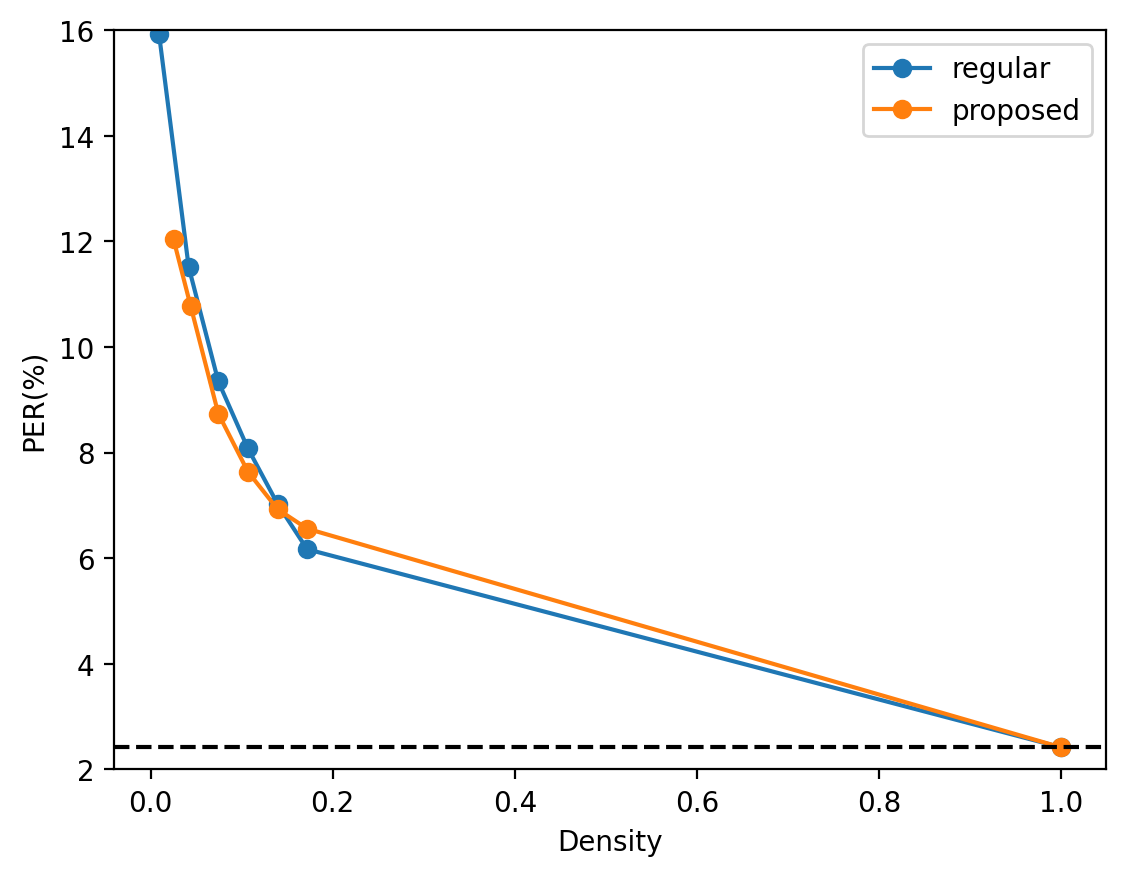
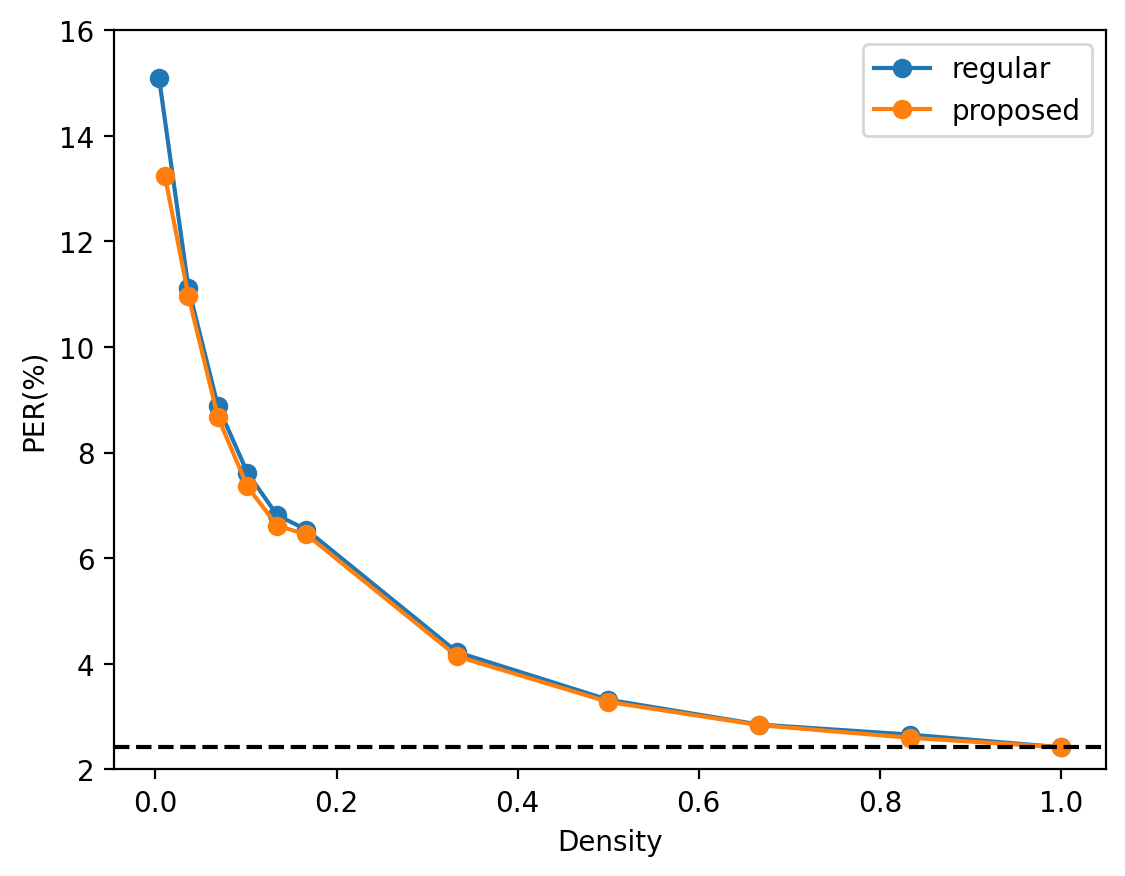
add draw figure script

diff --git a/reproduce_figure/draw.py b/reproduce_figure/draw.py
@@ -2,11 +2,17 @@ import argparse
 import numpy as np 
 import json 
 import matplotlib.pyplot as plt 
+import seaborn as sns 
 from matplotlib_venn import venn3
+
+sns.set()
+RED = '#FF4D4D'
+BLUE = '#6294FF'
+GREEN = '#91DD79'
 
 def mds_phoneme(phone_name):
     v_data_2d = np.load('data/mds-phoneme-2d.npy')
-    color = ['red', 'blue', 'green']
+    color = [RED, BLUE, GREEN]
     label = ['vowels', 'voiced-consonants', 'unvoiced-consonants']
     num_type = [15, 15, 9]
     acc = 0 
@@ -14,8 +20,8 @@ def mds_phoneme(phone_name):
         plt.scatter(v_data_2d[acc:acc+n,0], v_data_2d[acc:acc+n,1], c=color[idx], label=label[idx])
         acc += n 
     for idx, name in enumerate(phone_name):
-        plt.annotate(name, (v_data_2d[idx,0],v_data_2d[idx,1]))
-    plt.legend(loc='upper right', fontsize=6)
+        plt.annotate(name, (v_data_2d[idx,0],v_data_2d[idx,1]), fontsize=15)
+    plt.legend(loc='upper right', ncol=2, fontsize=13, framealpha=0.9)
     plt.axis('off')
     # plt.title(f'Layer 8')
     plt.savefig('fig/phone.png', bbox_inches='tight', dpi=200)
@@ -24,14 +30,14 @@ def mds_phoneme(phone_name):
 def mds_gender(phone_name):
     n_phone = len(phone_name)
     v_data_2d = np.load('data/mds-gender-2d.npy')
-    color = ['red', 'blue']
+    color = [RED, BLUE]
     label = ['male', 'female']
     for idx in range(2):
         plt.scatter(v_data_2d[idx*n_phone:(idx+1)*n_phone,0], v_data_2d[idx*n_phone:(idx+1)*n_phone,1], c=color[idx], label=label[idx])
     for idx, name in enumerate(phone_name):
-        plt.annotate(name, (v_data_2d[idx,0],v_data_2d[idx,1]))
-        plt.annotate(name, (v_data_2d[n_phone+idx,0],v_data_2d[n_phone+idx,1]))
-    plt.legend(loc='upper right', fontsize=6)
+        plt.annotate(name, (v_data_2d[idx,0],v_data_2d[idx,1]), fontsize=15)
+        plt.annotate(name, (v_data_2d[n_phone+idx,0],v_data_2d[n_phone+idx,1]), fontsize=15)
+    plt.legend(loc='upper right', ncol=2, fontsize=13, framealpha=0.9)
     plt.axis('off')
     # plt.title(f'Layer 1')
     plt.savefig('fig/gender.png', bbox_inches='tight', dpi=200)
@@ -40,15 +46,15 @@ def mds_gender(phone_name):
 def mds_pitch(phone_name):
     n_phone = len(phone_name)
     v_data_2d = np.load('data/mds-pitch-2d.npy')
-    color = ['red', 'blue', 'green']
+    color = [RED, BLUE, GREEN]
     label = ['<129.03Hz', '129.03-179.78Hz', '>179.78Hz']
     for idx in range(3):
         plt.scatter(v_data_2d[idx*n_phone:(idx+1)*n_phone,0], v_data_2d[idx*n_phone:(idx+1)*n_phone,1], c=color[idx], label=label[idx])
     for idx, name in enumerate(phone_name):
-        plt.annotate(name, (v_data_2d[idx,0],v_data_2d[idx,1]))
-        plt.annotate(name, (v_data_2d[n_phone+idx,0],v_data_2d[n_phone+idx,1]))
-        plt.annotate(name, (v_data_2d[n_phone*2+idx,0],v_data_2d[n_phone*2+idx,1]))
-    plt.legend(loc='upper right', fontsize=6)
+        plt.annotate(name, (v_data_2d[idx,0],v_data_2d[idx,1]), fontsize=15)
+        plt.annotate(name, (v_data_2d[n_phone+idx,0],v_data_2d[n_phone+idx,1]), fontsize=15)
+        plt.annotate(name, (v_data_2d[n_phone*2+idx,0],v_data_2d[n_phone*2+idx,1]), fontsize=15)
+    plt.legend(loc='upper right', ncol=2, fontsize=13, framealpha=0.9)
     plt.axis('off')
     # plt.title(f'Layer 1')
     plt.savefig('fig/pitch.png', bbox_inches='tight', dpi=200)
@@ -57,7 +63,7 @@ def mds_pitch(phone_name):
 def mds_duration(phone_name):
     n_phone = len(phone_name)
     v_data_2d = np.load('data/mds-duration-2d.npy')
-    color = ['red', 'blue', 'green']
+    color = [RED, BLUE, GREEN]
     label = ['<60ms', '60-100ms', '>100ms']
     for idx in range(3):
         plt.scatter(v_data_2d[idx*n_phone:(idx+1)*n_phone,0], v_data_2d[idx*n_phone:(idx+1)*n_phone,1], c=color[idx], label=label[idx])
@@ -65,7 +71,7 @@ def mds_duration(phone_name):
         plt.annotate(name, (v_data_2d[idx,0],v_data_2d[idx,1]))
         plt.annotate(name, (v_data_2d[n_phone+idx,0],v_data_2d[n_phone+idx,1]))
         plt.annotate(name, (v_data_2d[n_phone*2+idx,0],v_data_2d[n_phone*2+idx,1]))
-    plt.legend(loc='upper right', fontsize=6)
+    plt.legend(loc='upper right', ncol=2, fontsize=13, framealpha=0.9)
     plt.axis('off')
     # plt.title(f'Layer 6')
     plt.savefig('fig/duration.png', bbox_inches='tight', dpi=200)
@@ -81,9 +87,9 @@ def layer_compare():
     with open('data/layer_score.json', 'r') as fp:
         results = json.load(fp)
     color = {
-        'phone-type': 'C0',
-        'gender': 'C1',
-        'pitch': 'C2',
+        'phone-type': RED,
+        'gender': BLUE,
+        'pitch': GREEN,
         'duration': 'C3'
     }
     labels = {
@@ -201,7 +207,8 @@ def row_pruning_regular_n_ps_keys():
 def row_pruning_pr():
     methods = ['regular', 'protect-128', 'protect-all']
     per = {
-        'regular': [14.08, 9.89, 8.82, 8.92, 8.72, 8.17],
+        # 'regular': [14.08, 9.89, 8.82, 8.92, 8.72, 8.17],
+        'regular': [12.28, 8.40, 7.42, 7.23, 7.34, 8.17],
         'protect-128': [10.80, 8.99, 7.98, 7.42, 7.14, 8.17],
         'protect-all': [10.66, 8.17],
         # 'each-all': [10.95, 8.17],
@@ -286,11 +293,11 @@ def match_prob():
     n_dim = v_data.shape[-1]
     random_baseline = round(3072*0.01)/3072
     phone_name = ['AH']
-    plt.bar(range(n_dim), v_data[0])
+    plt.bar(range(n_dim), v_data[0], color=BLUE, linewidth=0)
     plt.xlabel('Neurons')
     plt.ylabel('Matching Probability (%)')
-    plt.axhline(y=random_baseline, color='r', linestyle='-', linewidth=1)
-    plt.text(x=2600, y=random_baseline+0.011, s='random baseline', color='r', ha='center', fontsize=12)
+    plt.axhline(y=random_baseline, color=RED, linestyle='-', linewidth=1)
+    plt.text(x=2600, y=random_baseline+0.011, s='random baseline', color=RED, ha='center', fontsize=15, fontweight='semibold')
     plt.savefig('fig/match_prob.png', bbox_inches='tight', dpi=200)
 
 def generate_colors(N):
@@ -314,12 +321,19 @@ def values_tsne():
 def task_specific_pr():
     methods = ['regular', 'proposed']
     per = {
-        'regular': [15.93, 11.52, 9.35, 8.08, 7.03, 6.17, 2.42],
-        'proposed': [12.04, 10.77, 8.74, 7.64, 6.93, 6.56, 2.42]
+        # 'regular': [15.93, 11.52, 9.35, 8.08, 7.03, 6.17, 2.42],
+        # 'proposed': [12.04, 10.77, 8.74, 7.64, 6.93, 6.56, 2.42]
+        'regular': [15.10, 11.11, 8.88, 7.62, 6.82, 6.54, 4.22, 3.32, 2.85, 2.66, 2.42],
+        # 'proposed': [13.24, 10.96, 8.67, 7.36, 6.62, 6.45, 4.14, 3.28, 2.84, 2.60, 2.42]
+        'proposed': [13.24, 10.96, 8.67, 7.36, 6.62, 6.45, 4.14, 3.28, 2.84, 2.60, 2.42]
     }
     rows = {
-        'regular': [28, 128, 228, 328, 428, 528, 3072],
-        'proposed': [77, 135, 228, 328, 428, 528, 3072],
+        # 'regular': [28, 128, 228, 328, 428, 528, 3072],
+        # 'proposed': [77, 135, 228, 328, 428, 528, 3072],
+        # 'regular': [12, 112, 212, 312, 412, 512, 1024, 1536, 2048, 2560, 3072],
+        # 'proposed': [32, 112, 212, 312, 412, 512, 1024, 1536, 2048, 2560, 3072],
+        'regular': [12, 112, 212, 312, 412, 512, 1024, 1536, 2048, 2560, 3072],
+        'proposed': [32, 112, 212, 312, 412, 512, 1024, 1536, 2048, 2560, 3072],
     }
     # Calculate density 
     D = 3072 
@@ -347,12 +361,20 @@ def task_specific_pr():
 def task_specific_sid():
     methods = ['regular', 'proposed']
     acc = {
-        'regular': [69.54, 81.99],
-        'proposed': [73.74, 81.99]
+        # 'regular': [69.54, 81.99],
+        # 'proposed': [73.74, 81.99]
+        # 'regular': [74.60, 74.34, 76.19, 75.50, 75.34, 72.40, 74.68, 77.33, 79.11, 80.64, 81.99],
+        # 'proposed': [75.36, 75.42, 76.08, 76.19, 75.36, 74.10, 76.70, 78.43, 80.07, 81.60, 81.99]
+        'regular': [72.40, 74.68, 77.33, 79.11, 80.64, 81.99],
+        'proposed': [74.10, 76.70, 78.43, 80.07, 81.60, 81.99]
     }
     rows = {
-        'regular': [169, 3072],
-        'proposed': [169, 3072]
+        # 'regular': [169, 3072],
+        # 'proposed': [169, 3072]
+        # 'regular': [12, 112, 212, 312, 412, 512, 1024, 1536, 2048, 2560, 3072],
+        # 'proposed': [23, 112, 212, 312, 412, 512, 1024, 1536, 2048, 2560, 3072]
+        'regular': [512, 1024, 1536, 2048, 2560, 3072],
+        'proposed': [512, 1024, 1536, 2048, 2560, 3072]
     }
     # Calculate density 
     D = 3072 
@@ -410,11 +432,29 @@ def task_specific_bar():
     ax2.set_ylabel('SID ERR (%)')
     # Legend
     plt.savefig('fig/task-specific-bar.png', bbox_inches='tight', dpi=200)
-    
+
+# def task_specific_layer_dim():
+#     # Data for the performance of methods
+#     PR = [161, 77, 61, 35, 45, 172, 237, 205, 106, 88, 156, 287]
+#     SID = [187, 142, 38, 18, 31, 49, 45, 66, 151, 415, 431, 458]
+    # Bar width
+    # bar_width = 0.18
+    # # Index for the bar locations for PR and SID
+    # index_PR = np.arange(len(methods)) * 0.3  
+    # index_SID = np.arange(len(methods)) * 0.3 + 0.15
+    # # Bar plots for PR
+    # plt.bar(index_PR, PR.values(), bar_width, label='PR', color='C0')
+
+    # ax1.set_xticks()
+    # ax1.set_xticklabels(['PR ' + m for m in methods] + ['SID ' + m for m in methods])  # Explicit labels for clarity
+    # # Legend
+    # plt.savefig('fig/task-specific-layer-dim.png', bbox_inches='tight', dpi=200)
+
 def task_specific_pruning():
     task_specific_pr()
     task_specific_sid()
-    task_specific_bar()
+    # task_specific_bar()
+    # task_specific_layer_dim()
 
 def ssl_pruning():
     row_pruning_pr()
